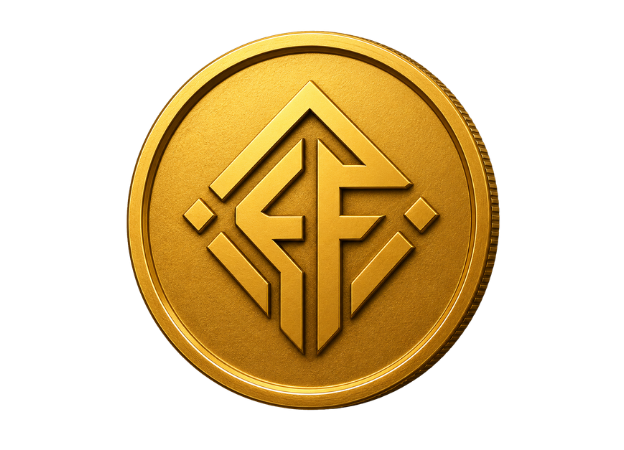
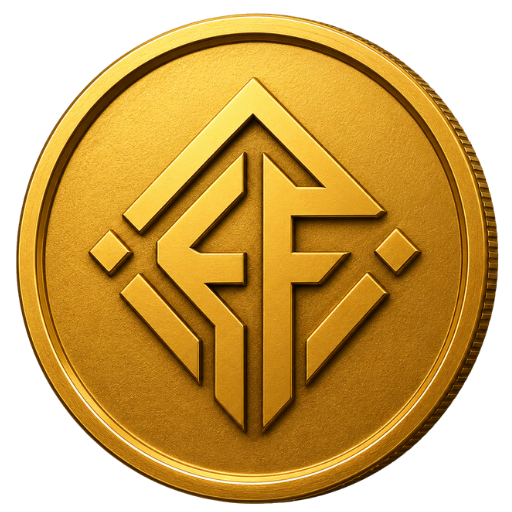
feat: new EF gold coin on tap button, redesigned nav bar (no admin button), premium glow effects

diff --git a/frontend/src/components/Navigation.tsx b/frontend/src/components/Navigation.tsx
@@ -1,6 +1,6 @@
 import React from 'react';
 import { motion } from 'framer-motion';
-import { Home, CheckSquare, Gift, Wallet, User, Shield, BarChart2 } from 'lucide-react';
+import { Home, CheckSquare, Gift, Wallet, User, Settings } from 'lucide-react';
 
 export type ActiveTab = 'home' | 'tasks' | 'referral' | 'wallet' | 'profile' | 'settings' | 'admin';
 
@@ -10,20 +10,32 @@ interface NavigationProps {
   isAdmin: boolean;
 }
 
-export const Navigation: React.FC<NavigationProps> = ({ activeTab, setActiveTab, isAdmin }) => {
-  const tabs = [
-    { id: 'home' as ActiveTab, label: 'Home', icon: Home },
-    { id: 'tasks' as ActiveTab, label: 'Tasks', icon: CheckSquare },
-    { id: 'referral' as ActiveTab, label: 'Invite', icon: Gift },
-    { id: 'wallet' as ActiveTab, label: 'Wallet', icon: Wallet },
-    { id: 'profile' as ActiveTab, label: 'Profile', icon: User },
-  ];
+const tabs = [
+  { id: 'home' as ActiveTab,    label: 'Home',    icon: Home },
+  { id: 'tasks' as ActiveTab,   label: 'Tasks',   icon: CheckSquare },
+  { id: 'referral' as ActiveTab,label: 'Invite',  icon: Gift },
+  { id: 'wallet' as ActiveTab,  label: 'Wallet',  icon: Wallet },
+  { id: 'profile' as ActiveTab, label: 'Profile', icon: User },
+  { id: 'settings' as ActiveTab,label: 'More',    icon: Settings },
+];
 
+export const Navigation: React.FC<NavigationProps> = ({ activeTab, setActiveTab }) => {
   return (
-    <div className="absolute bottom-6 left-4 right-4 z-40">
-      <div className="glass-panel px-3 py-2.5 rounded-[22px] flex items-center justify-around relative shadow-[0_15px_40px_rgba(0,0,0,0.4)] border-white/7">
-        
-        {/* Helper icons on top right/left of nav if needed, but keeping it inside for simplicity */}
+    <div className="absolute bottom-4 left-3 right-3 z-40">
+      {/* Pill Container */}
+      <div
+        className="relative flex items-center justify-around px-2 py-2 rounded-[28px] overflow-hidden"
+        style={{
+          background: 'rgba(10,13,28,0.92)',
+          backdropFilter: 'blur(24px)',
+          WebkitBackdropFilter: 'blur(24px)',
+          border: '1px solid rgba(255,255,255,0.07)',
+          boxShadow: '0 20px 60px rgba(0,0,0,0.55), 0 0 0 1px rgba(255,255,255,0.04), inset 0 1px 0 rgba(255,255,255,0.06)',
+        }}
+      >
+        {/* Subtle inner shimmer line */}
+        <div className="absolute top-0 left-8 right-8 h-px bg-gradient-to-r from-transparent via-white/10 to-transparent pointer-events-none" />
+
         {tabs.map((tab) => {
           const Icon = tab.icon;
           const isActive = activeTab === tab.id;
@@ -32,65 +44,63 @@ export const Navigation: React.FC<NavigationProps> = ({ activeTab, setActiveTab,
             <button
               key={tab.id}
               onClick={() => setActiveTab(tab.id)}
-              className="relative py-2 px-3.5 flex flex-col items-center justify-center cursor-pointer transition-all duration-300 group"
+              className="relative flex flex-col items-center justify-center gap-0.5 py-1.5 px-3 cursor-pointer transition-all duration-200 group focus:outline-none"
+              style={{ minWidth: 44 }}
             >
+              {/* Active pill glow background */}
               {isActive && (
                 <motion.div
-                  layoutId="active-indicator"
-                  className="absolute inset-0 rounded-[16px] bg-white/[0.06] border border-white/[0.09] shadow-[0_0_20px_rgba(0,229,255,0.06)]"
-                  transition={{ type: 'spring', stiffness: 380, damping: 30 }}
+                  layoutId="nav-active-pill"
+                  className="absolute inset-0 rounded-[18px]"
+                  style={{
+                    background: 'rgba(255,138,0,0.12)',
+                    border: '1px solid rgba(255,138,0,0.22)',
+                    boxShadow: '0 0 18px rgba(255,138,0,0.15)',
+                  }}
+                  transition={{ type: 'spring', stiffness: 420, damping: 32 }}
                 />
               )}
 
+              {/* Icon */}
               <motion.div
                 animate={{
-                  scale: isActive ? 1.15 : 1,
-                  y: isActive ? -2 : 0,
+                  scale: isActive ? 1.18 : 1,
+                  y: isActive ? -1 : 0,
                 }}
-                className={`relative z-10 ${isActive ? 'text-accent-cyan' : 'text-slate-400 group-hover:text-slate-200'} transition-colors duration-200`}
+                transition={{ type: 'spring', stiffness: 380, damping: 26 }}
+                className="relative z-10"
               >
-                <Icon size={20} className={isActive ? 'drop-shadow-[0_0_8px_rgba(0,229,255,0.4)]' : ''} />
+                <Icon
+                  size={19}
+                  className={
+                    isActive
+                      ? 'text-[#FF8A00] drop-shadow-[0_0_8px_rgba(255,138,0,0.55)]'
+                      : 'text-slate-500 group-hover:text-slate-300 transition-colors'
+                  }
+                  strokeWidth={isActive ? 2.2 : 1.8}
+                />
               </motion.div>
 
-              <span className={`text-[10px] mt-1 font-medium relative z-10 tracking-wide transition-all ${
-                isActive ? 'text-white scale-105 font-semibold' : 'text-slate-500 scale-100 group-hover:text-slate-400'
-              }`}>
+              {/* Label */}
+              <span
+                className={`relative z-10 text-[9px] font-semibold tracking-wide transition-all duration-200 ${
+                  isActive ? 'text-[#FF8A00]' : 'text-slate-600 group-hover:text-slate-400'
+                }`}
+              >
                 {tab.label}
               </span>
+
+              {/* Active dot indicator */}
+              {isActive && (
+                <motion.div
+                  layoutId="nav-dot"
+                  className="absolute -bottom-1 w-1 h-1 rounded-full bg-[#FF8A00] shadow-[0_0_6px_rgba(255,138,0,0.8)]"
+                  transition={{ type: 'spring', stiffness: 420, damping: 32 }}
+                />
+              )}
             </button>
           );
         })}
-
-        {/* Small admin and settings shortcuts at the far right/left in a clean manner */}
-        <div className="w-[1px] h-6 bg-white/10 mx-1"></div>
-
-        <div className="flex gap-1.5">
-          <button
-            onClick={() => setActiveTab('settings')}
-            className={`p-2 rounded-xl transition-all ${
-              activeTab === 'settings' 
-                ? 'bg-white/[0.06] border border-white/[0.09] text-accent-cyan' 
-                : 'text-slate-500 hover:text-slate-300'
-            }`}
-            title="Settings"
-          >
-            <Shield size={16} />
-          </button>
-          {isAdmin && (
-            <button
-              onClick={() => setActiveTab('admin')}
-              className={`p-2 rounded-xl transition-all ${
-                activeTab === 'admin' 
-                  ? 'bg-white/[0.06] border border-white/[0.09] text-accent-cyan' 
-                  : 'text-slate-500 hover:text-slate-300'
-              }`}
-              title="Admin Panel"
-            >
-              <BarChart2 size={16} />
-            </button>
-          )}
-        </div>
-
       </div>
     </div>
   );

diff --git a/frontend/src/views/Home.tsx b/frontend/src/views/Home.tsx
@@ -325,18 +325,41 @@ export const Home: React.FC<HomeProps> = ({
           <span className="text-[9px] text-slate-500 font-bold shrink-0">{energy}/{maxEnergy}</span>
         </div>
 
-        {/* Coin */}
+        {/* Coin Tap */}
         <motion.div
           onClick={handleCoinClick}
-          animate={isSpinning ? { scale: 0.93, rotateY: 15 } : { scale: 1, rotateY: 0 }}
-          transition={{ duration: 0.15 }}
-          className="relative w-64 h-64 rounded-full cursor-pointer select-none"
-          style={{ perspective: 800 }}
+          animate={isSpinning ? { scale: 0.93, rotateY: 12 } : { scale: 1, rotateY: 0 }}
+          transition={{ duration: 0.13 }}
+          className="relative w-64 h-64 cursor-pointer select-none flex items-center justify-center"
+          style={{ perspective: 900 }}
         >
-          <div className="absolute inset-0 rounded-full bg-gradient-to-br from-[#FF8A00]/30 to-[#FF5500]/20 blur-2xl animate-pulse" />
-          <div className="relative w-full h-full rounded-full overflow-hidden border-4 border-[#FFD700]/30 flex items-center justify-center shadow-[0_0_40px_rgba(255,138,0,0.4)] bg-gradient-to-br from-[#1E2338] via-[#0E1225] to-[#050816]">
-            <img src="/coin.png" alt="EF Coin" className="w-full h-full object-contain select-none" />
-          </div>
+          {/* Multi-layer ambient glow rings */}
+          <div className="absolute inset-[-16px] rounded-full bg-[#FFD700]/10 blur-3xl animate-pulse" />
+          <div className="absolute inset-[-4px] rounded-full bg-[#FF8A00]/20 blur-xl animate-pulse" style={{ animationDelay: '0.5s' }} />
+
+          {/* Rotating orbit ring */}
+          <motion.div
+            animate={{ rotate: 360 }}
+            transition={{ repeat: Infinity, duration: 8, ease: 'linear' }}
+            className="absolute inset-0 rounded-full border border-dashed border-[#FFD700]/15"
+          />
+
+          {/* Gold solid ring border */}
+          <div
+            className="absolute inset-[2px] rounded-full pointer-events-none"
+            style={{
+              border: '2px solid rgba(255,215,0,0.18)',
+              boxShadow: '0 0 30px rgba(255,138,0,0.25), inset 0 0 20px rgba(255,215,0,0.06)',
+            }}
+          />
+
+          {/* Coin image — transparent background, full size */}
+          <img
+            src="/coin.png"
+            alt="EF Coin"
+            draggable={false}
+            className="relative z-10 w-full h-full object-contain select-none drop-shadow-[0_0_28px_rgba(255,215,0,0.35)]"
+          />
 
           {/* Floating click texts */}
           <AnimatePresence>
@@ -344,10 +367,10 @@ export const Home: React.FC<HomeProps> = ({
               <motion.div
                 key={click.id}
                 initial={{ opacity: 1, y: 0, x: click.x - 128 }}
-                animate={{ opacity: 0, y: -60 }}
+                animate={{ opacity: 0, y: -65 }}
                 exit={{ opacity: 0 }}
-                transition={{ duration: 0.9 }}
-                className="absolute pointer-events-none font-black text-[#FFD700] text-sm drop-shadow-lg"
+                transition={{ duration: 0.85 }}
+                className="absolute pointer-events-none font-black text-[#FFD700] text-base drop-shadow-[0_2px_8px_rgba(255,215,0,0.6)] z-20"
                 style={{ top: click.y - 16, left: 0 }}
               >
                 +{click.value}